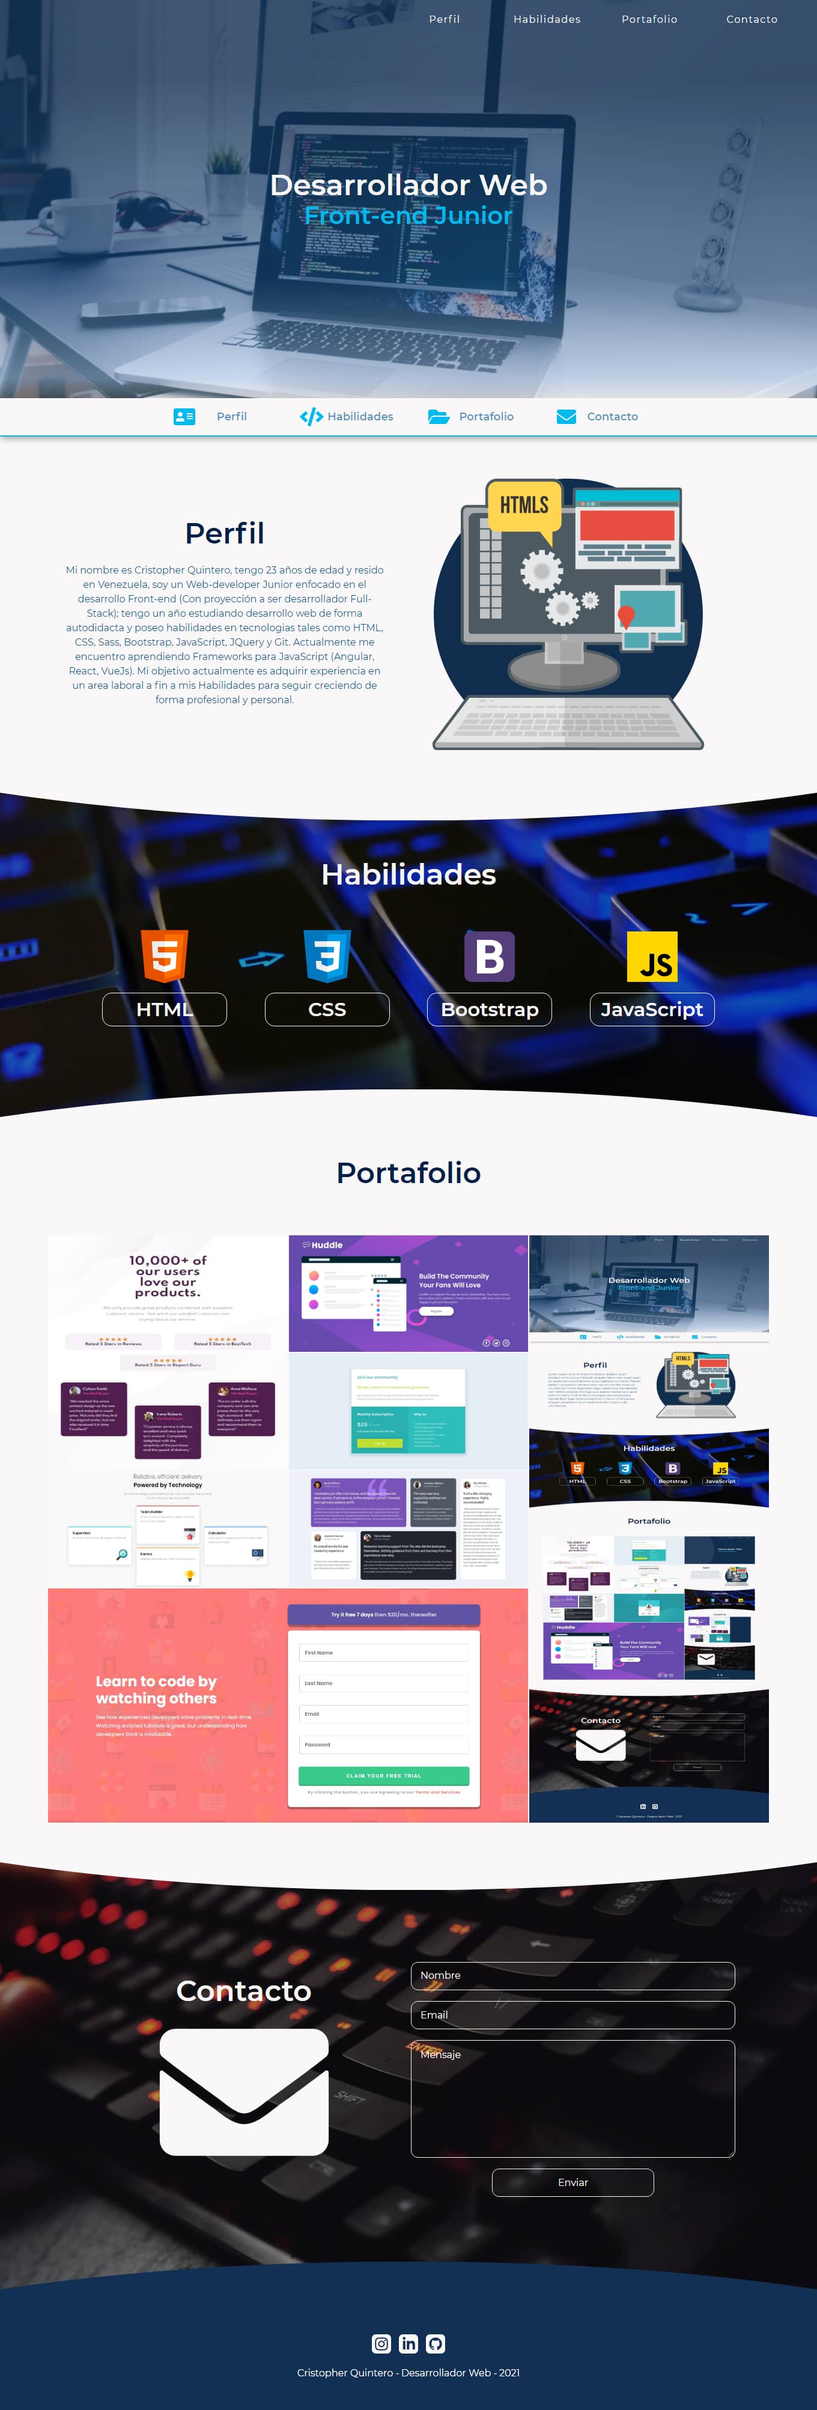
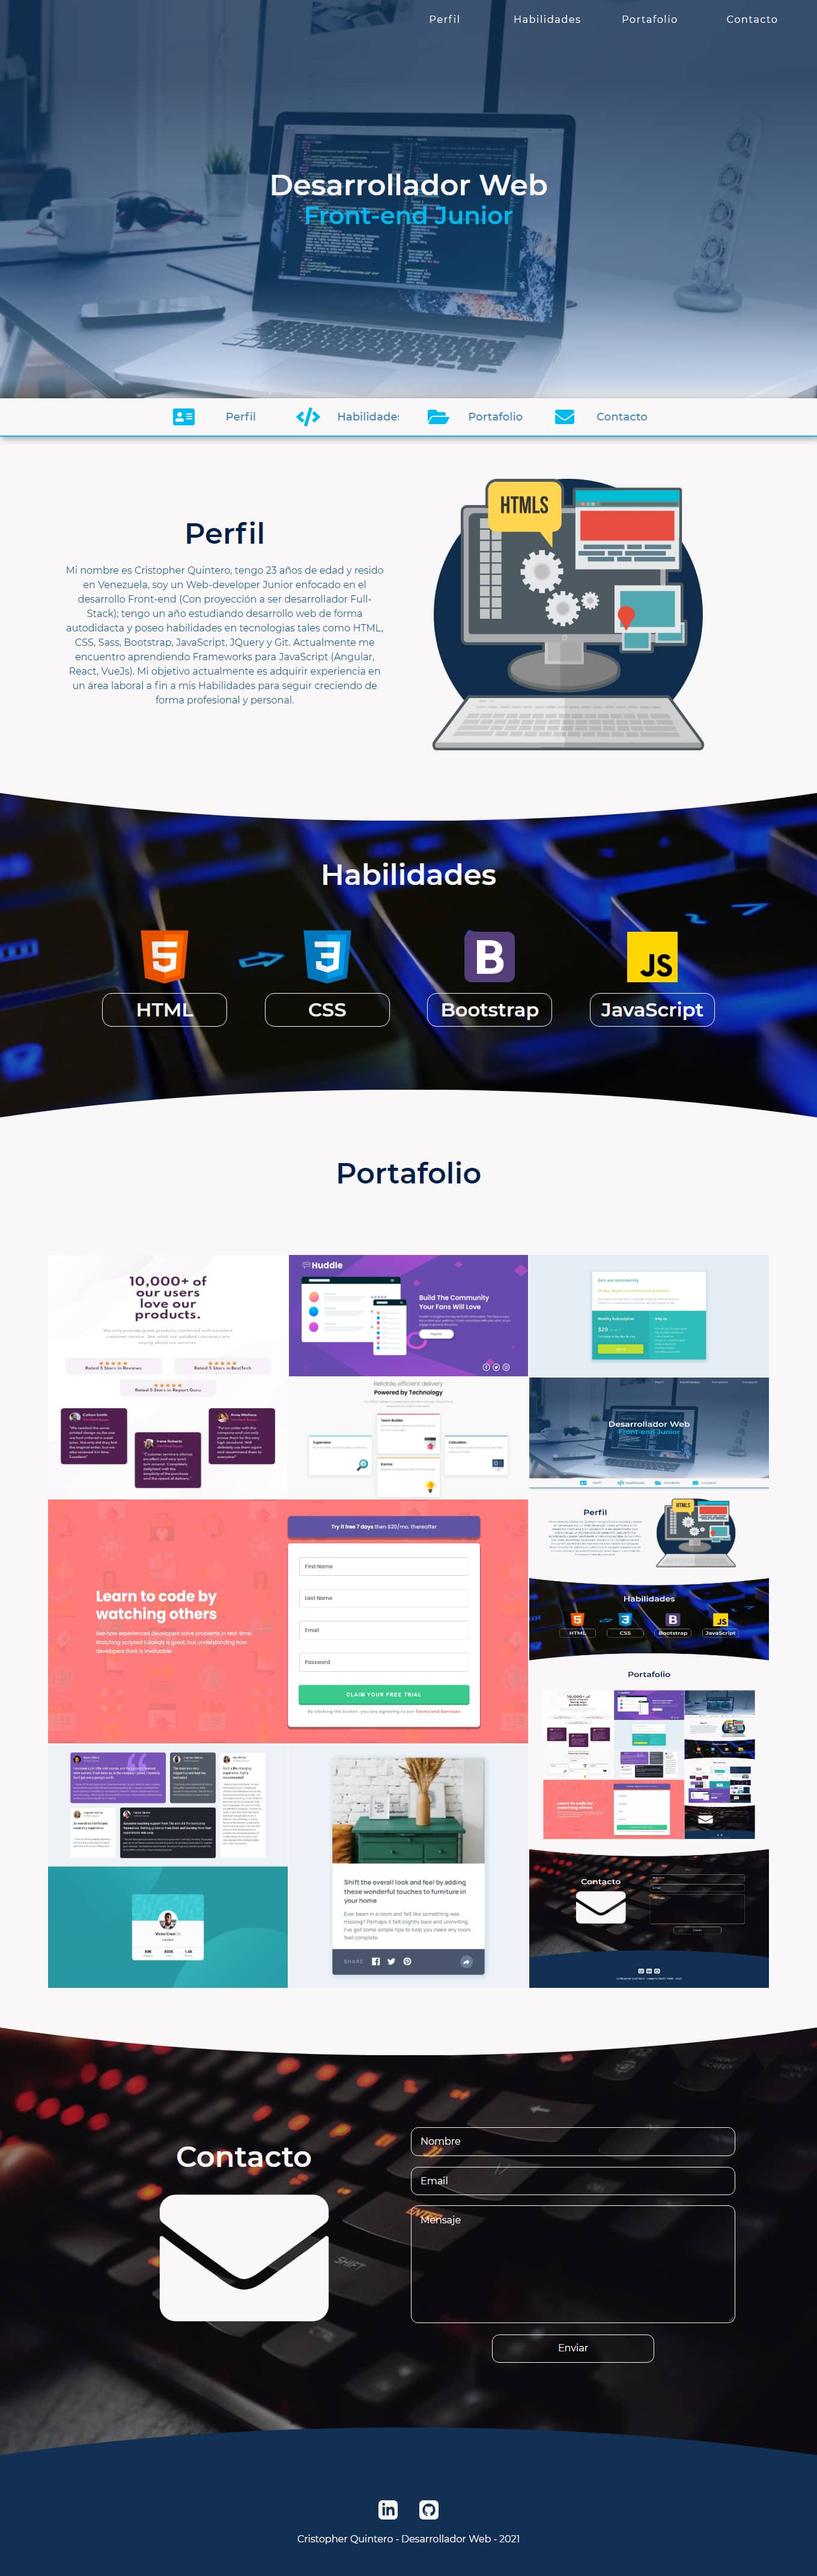
Big change in Portafolio folder

diff --git a/Portafolio/PortafolioStyle.css b/Portafolio/PortafolioStyle.css
@@ -432,6 +432,29 @@ h3 {
   font-weight: 600;
 }
 
+body::-webkit-scrollbar {
+  display: none;
+}
+
+body::-webkit-scrollbar {
+  -webkit-appearance: none;
+  width: 0.7rem;
+  background-color: #F9F7F7;
+}
+
+body::-webkit-scrollbar-track {
+  background-color: transparent;
+}
+
+body::-webkit-scrollbar-button:increment, body::-webkit-scrollbar-button {
+  display: none;
+}
+
+body::-webkit-scrollbar-thumb {
+  background-color: #00BBF0;
+  border-radius: 0.8rem;
+}
+
 /* ********** Utilities ********** */
 .fill {
   fill: #123053 !important;
@@ -477,7 +500,7 @@ h3 {
   background-image: -webkit-gradient(linear, left top, left bottom, color-stop(20%, #123053), color-stop(70%, rgba(27, 73, 125, 0.7)), color-stop(95%, rgba(171, 201, 236, 0.7)), to(rgba(250, 250, 250, 0.3)));
   background-image: linear-gradient(to bottom, #123053 20%, rgba(27, 73, 125, 0.7) 70%, rgba(171, 201, 236, 0.7) 95%, rgba(250, 250, 250, 0.3));
   opacity: 0.8;
-  z-index: 1;
+  z-index: 5;
 }
 
 .grow {
@@ -622,6 +645,30 @@ h3 {
   }
 }
 
+@-webkit-keyframes background-change {
+  0% {
+    opacity: 0;
+  }
+  50% {
+    opacity: 1;
+  }
+  100% {
+    opacity: 0;
+  }
+}
+
+@keyframes background-change {
+  0% {
+    opacity: 0;
+  }
+  50% {
+    opacity: 1;
+  }
+  100% {
+    opacity: 0;
+  }
+}
+
 /* ********** Landing ********** */
 #landing {
   height: 100vh;
@@ -648,7 +695,7 @@ h3 {
   height: 10%;
   position: absolute;
   top: 0;
-  z-index: 3;
+  z-index: 10;
   display: -webkit-box;
   display: -ms-flexbox;
   display: flex;
@@ -732,7 +779,7 @@ h3 {
 #landing .title {
   width: auto;
   text-align: center;
-  z-index: 3;
+  z-index: 10;
 }
 
 #landing .title div {
@@ -760,7 +807,7 @@ h3 {
   position: -webkit-sticky;
   position: sticky;
   top: 0;
-  z-index: 10;
+  z-index: 100;
   display: -webkit-box;
   display: -ms-flexbox;
   display: flex;
@@ -1054,7 +1101,7 @@ h3 {
 /* ********** Portafolio ********** */
 #portafolio {
   padding: 4rem 0;
-  height: calc(100vw/1.1);
+  height: calc(100vw/0.9);
   background-color: #F9F7F7;
   display: -webkit-box;
   display: -ms-flexbox;
@@ -1183,6 +1230,38 @@ h3 {
 
 #portafolio .portafolio .img-container .n7 {
   background-image: url("Portafolio Images/Screen-Sign-Up.jpg");
+}
+
+#portafolio .portafolio .img-container .n7 .second-image {
+  background-image: url("Portafolio Images/Screen-Sign-Up-Active.jpg");
+}
+
+#portafolio .portafolio .img-container .n8 {
+  background-image: url("Portafolio Images/Screen-Preview.jpg");
+}
+
+#portafolio .portafolio .img-container .n8 .second-image {
+  background-image: url("Portafolio Images/Screen-Preview_Active.jpg");
+}
+
+#portafolio .portafolio .img-container .n9 {
+  background-image: url("Portafolio Images/Screen-Profile.jpg");
+}
+
+.second-image {
+  width: 100%;
+  height: 100%;
+  background-position: center;
+  background-size: 100% 100%;
+  opacity: 0;
+  position: absolute;
+  z-index: 3;
+  -webkit-transition: opacity 0.5s ease;
+  transition: opacity 0.5s ease;
+}
+
+.opacity {
+  opacity: 1;
 }
 
 /* ********** Contacto ********** */
@@ -1497,23 +1576,23 @@ footer .name div {
     height: 90% !important;
   }
   .img-container {
-    -ms-grid-rows: (1fr)[5];
+    -ms-grid-rows: (1fr)[6];
     -ms-grid-columns: (1fr)[3];
-        grid-template: repeat(5, 1fr)/repeat(3, 1fr);
+        grid-template: repeat(6, 1fr)/repeat(3, 1fr);
   }
   .img-container .n1 {
-    -ms-grid-row: 1;
+    -ms-grid-row: 2;
     -ms-grid-row-span: 5;
     -ms-grid-column: 3;
     -ms-grid-column-span: 1;
-    grid-area: 1 / 3 / span 5 / span 1;
+    grid-area: 2 / 3 / span 5 / span 1;
   }
   .img-container .n7 {
-    -ms-grid-row: 4;
+    -ms-grid-row: 3;
     -ms-grid-row-span: 2;
     -ms-grid-column: 1;
     -ms-grid-column-span: 2;
-    grid-area: 4 / 1 / span 2 / span 2;
+    grid-area: 3 / 1 / span 2 / span 2;
   }
   .img-container .n5 {
     -ms-grid-row: 1;
@@ -1521,6 +1600,13 @@ footer .name div {
     -ms-grid-column: 1;
     -ms-grid-column-span: 1;
     grid-area: 1 / 1 / span 2 / span 1;
+  }
+  .img-container .n8 {
+    -ms-grid-row: 5;
+    -ms-grid-row-span: 2;
+    -ms-grid-column: 2;
+    -ms-grid-column-span: 1;
+    grid-area: 5 / 2 / span 2 / span 1;
   }
 }
 
@@ -1639,22 +1725,15 @@ footer .name div {
     height: 7rem !important;
   }
   #portafolio {
-    height: calc(100vw/0.75);
+    height: calc(100vw/0.65);
   }
   #portafolio .img-container {
-    -ms-grid-rows: (1fr)[5];
+    -ms-grid-rows: (1fr)[6];
     -ms-grid-columns: (1fr)[2];
-        grid-template: repeat(5, 1fr)/repeat(2, 1fr);
+        grid-template: repeat(6, 1fr)/repeat(2, 1fr);
   }
   #portafolio .img-container .n1 {
     display: none !important;
-  }
-  #portafolio .img-container .n2 {
-    -ms-grid-row: 4;
-    -ms-grid-row-span: 2;
-    -ms-grid-column: 1;
-    -ms-grid-column-span: 2;
-    grid-area: 4 / 1 / span 2 / span 2;
   }
   #portafolio .img-container .n5 {
     -ms-grid-row: 1;
@@ -1662,6 +1741,23 @@ footer .name div {
     -ms-grid-column: 1;
     -ms-grid-column-span: 1;
     grid-area: 1 / 1 / span 2 / span 1;
+  }
+  #portafolio .img-container .n7 {
+    -ms-grid-row: 3;
+    -ms-grid-row-span: 2;
+    -ms-grid-column: 1;
+    -ms-grid-column-span: 2;
+    grid-area: 3 / 1 / span 2 / span 2;
+  }
+  #portafolio .img-container .n8 {
+    -ms-grid-row: 5;
+    -ms-grid-row-span: 2;
+    -ms-grid-column: 2;
+    -ms-grid-column-span: 1;
+    grid-area: 5 / 2 / span 2 / span 1;
+  }
+  #portafolio .img-container .n9 {
+    display: none;
   }
   #contacto {
     padding: 3rem 0 !important;
@@ -1821,19 +1917,12 @@ footer .name div {
     height: calc(100vw/0.65);
   }
   #portafolio .img-container {
-    -ms-grid-rows: (1fr)[5];
+    -ms-grid-rows: (1fr)[6];
     -ms-grid-columns: (1fr)[2];
-        grid-template: repeat(5, 1fr)/repeat(2, 1fr);
+        grid-template: repeat(6, 1fr)/repeat(2, 1fr);
   }
   #portafolio .img-container .n1 {
     display: none !important;
-  }
-  #portafolio .img-container .n2 {
-    -ms-grid-row: 4;
-    -ms-grid-row-span: 2;
-    -ms-grid-column: 1;
-    -ms-grid-column-span: 2;
-    grid-area: 4 / 1 / span 2 / span 2;
   }
   #portafolio .img-container .n5 {
     -ms-grid-row: 1;
@@ -1841,6 +1930,23 @@ footer .name div {
     -ms-grid-column: 1;
     -ms-grid-column-span: 1;
     grid-area: 1 / 1 / span 2 / span 1;
+  }
+  #portafolio .img-container .n7 {
+    -ms-grid-row: 3;
+    -ms-grid-row-span: 2;
+    -ms-grid-column: 1;
+    -ms-grid-column-span: 2;
+    grid-area: 3 / 1 / span 2 / span 2;
+  }
+  #portafolio .img-container .n8 {
+    -ms-grid-row: 5;
+    -ms-grid-row-span: 2;
+    -ms-grid-column: 2;
+    -ms-grid-column-span: 1;
+    grid-area: 5 / 2 / span 2 / span 1;
+  }
+  #portafolio .img-container .n9 {
+    display: none;
   }
   #contacto {
     padding: 3rem 0 !important;
@@ -2116,6 +2222,9 @@ footer .name div {
     height: calc(90vw/2.05);
   }
   #portafolio .portafolio__container .portafolio .img-container .n5 {
+    height: calc(90vw/1.025);
+  }
+  #portafolio .portafolio__container .portafolio .img-container .n8 {
     height: calc(90vw/1.025);
   }
   #contacto {

diff --git a/Portafolio/index.html b/Portafolio/index.html
@@ -140,6 +140,28 @@
                                 </div>
                             </a>
                             <a href="https://BarcaV.github.io/Sign-Up-Form/" target="_blank" class="project__group n7">
+                                <div class="second-image">
+                                </div>
+                                <div class="project__description degrade_blue">
+                                    <div class="project__container">
+                                        <p>HTML & CSS</p>
+                                        <p>JavaScript</p>
+                                        <p>Full Responsive</p>
+                                    </div>
+                                </div>
+                            </a>
+                            <a href="https://barcav.github.io/Article-Preview/" target="_blank" class="project__group n8">
+                                <div class="second-image">
+                                </div>
+                                <div class="project__description degrade_blue">
+                                    <div class="project__container">
+                                        <p>HTML & CSS</p>
+                                        <p>JavaScript</p>
+                                        <p>Full Responsive</p>
+                                    </div>
+                                </div>
+                            </a>
+                            <a href="https://barcav.github.io/Profile-Vanila/" target="_blank" class="project__group n9">
                                 <div class="project__description degrade_blue">
                                     <div class="project__container">
                                         <p>HTML & CSS</p>

diff --git a/Portafolio/Portafolio.js b/Portafolio/Portafolio.js
@@ -23,14 +23,26 @@
     
     const fade = index => {
         let j;
+        let k;
         
         if (index === 0) {
             j = index + 3;
             for (let i = index; i < j; i++) {
                 degradeText[i].classList.toggle("fade");
             }
-        } else if (index === (projectContainer.length - 1)) {
-            index += (index + 1);
+        } else if (index >= 6) {
+            switch (index) {
+                case 6: 
+                    k = 1;
+                    break;
+                case 7: 
+                    k = 2;
+                    break;
+                case 8:
+                    k = 3;
+                    break;
+            }
+            index += (index + k);
             j = index + 3;
             for (let i = index; i < j; i++) {
                 degradeText[i].classList.toggle("fade");
@@ -44,6 +56,21 @@
         } 
     }
 })();
+
+/* ********** Image Active Animation ********** */
+
+((d, w) => {
+    const previewImage =  d.querySelectorAll(".second-image");
+
+
+    setInterval(() => {
+        previewImage[0].classList.toggle("opacity");
+    }, 5000);
+
+    setInterval(() => {
+        previewImage[1].classList.toggle("opacity");
+    }, 4500);
+})(document, window);
 
 /* ********** Contacto Animation ********** */
 (() => {
@@ -181,7 +208,7 @@
             $main.insertAdjacentElement("afterbegin", $stickyNavBar);
 
         } else {
-            
+
             $stickyNavBar.remove();
             $main.insertAdjacentElement("beforeend", $stickyNavBar);
 
